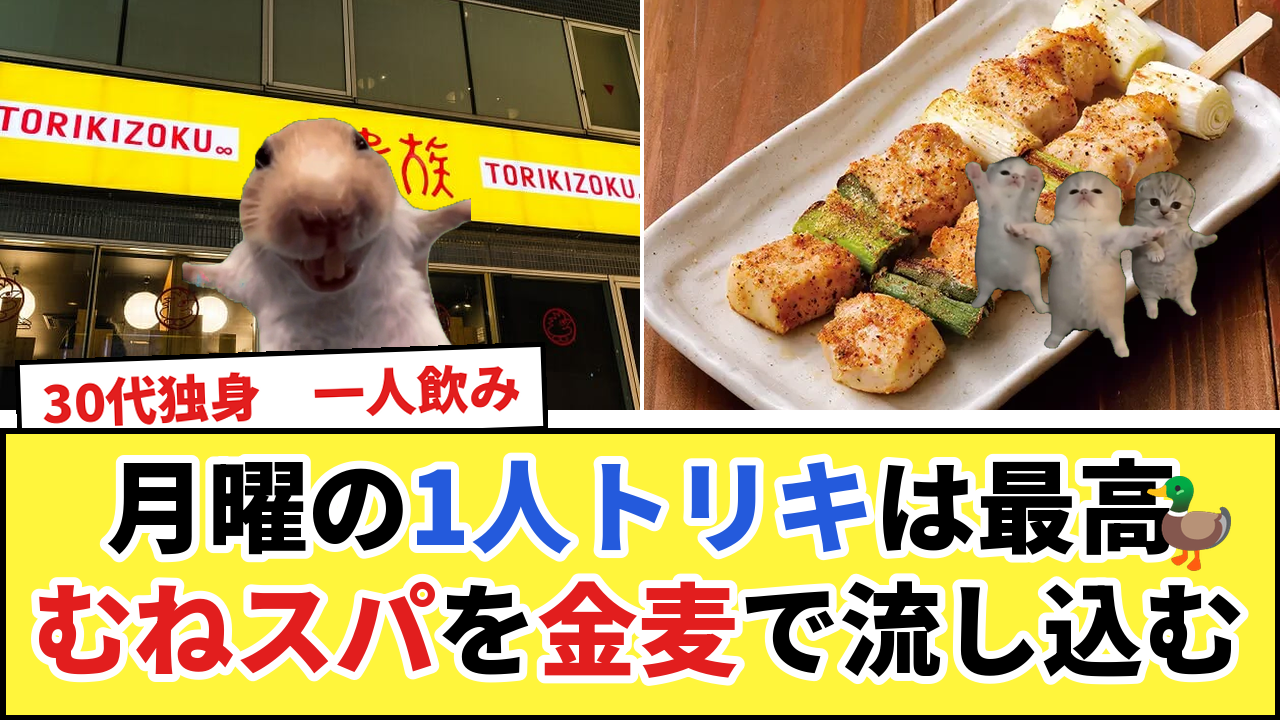
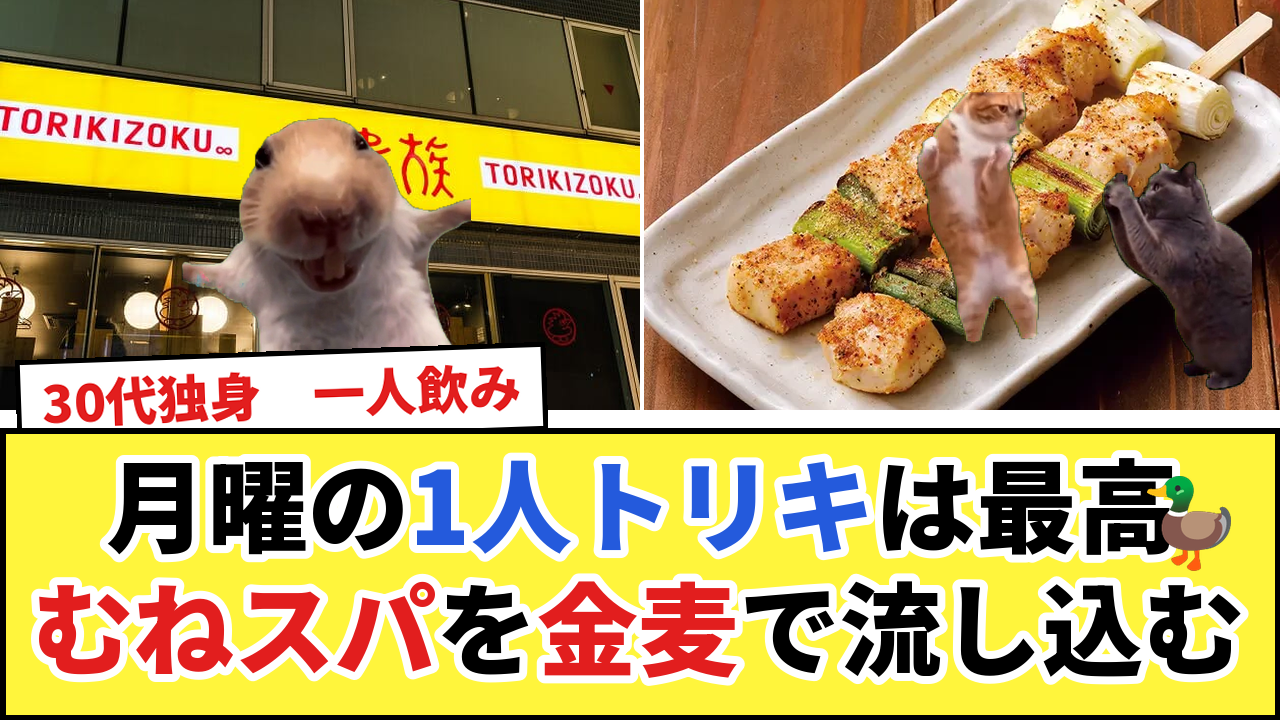
Torikizoku thumb: phone + dancing cat on the right
Claude-Session: https://claude.ai/code/session_011g9CsrfFD5YswfNSvNDW39

Changed region(s): [[0.7188, 0.1222, 1.0, 0.55]]

diff --git a/catmeme/make_thumb_torikizoku.py b/catmeme/make_thumb_torikizoku.py
@@ -31,7 +31,7 @@ def main():
     name = "jidaraku_08_torikizoku_thumb_a.png"
     T.type_a(name, "t01_front", "f_mune_spice",
              ("happy_hamster_open_arms", 1.0, 330, 410, 300, False),
-             [("dance_three_kittens", 1.0, 1080, 410, 300, False)],
+             [("dance_filmed_by_gray_cat", 1.0, 1080, 410, 320, False)],
              "30代独身　一人飲み", line1, line2, split=640, size=SIZE)
     p = os.path.join(T.HERE, "thumbs", name)
     img = Image.open(p).convert("RGBA")
